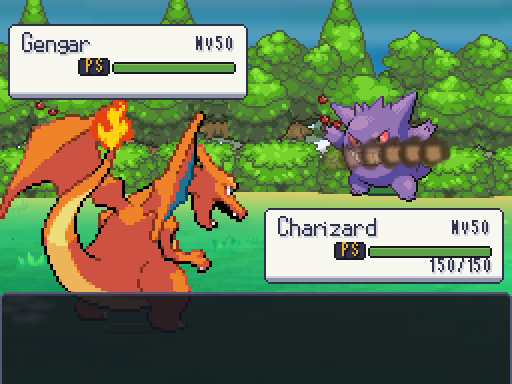
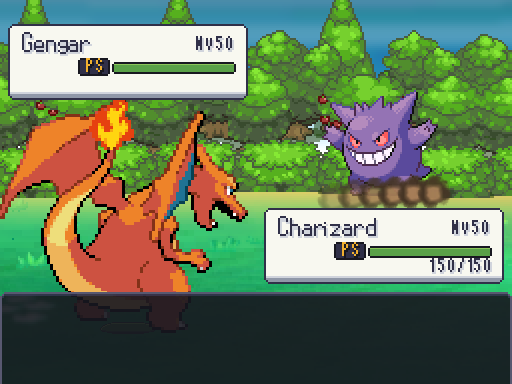
Combate: ajustar el polvo al suelo y cerrar la validación integrada

Changed region(s): [[0.625, 0.3438, 0.875, 0.5625]]

diff --git a/docs/ESTADO.md b/docs/ESTADO.md
@@ -245,7 +245,7 @@ Worktree `pokemon-panchito-agente1`, rama `feat/agente1-mundo-sur`. Tramo: Ruta 
 
 **Validación:** 11/11 dirigidas, 659 aserciones; suite completa **490/490 tests, 23.184 aserciones, 551,83 s**, sin fugas al cerrar ni errores de script. Arte 10.926 PNG, 0 errores/avisos; datos 0 errores y 3 avisos previos. Cuatro mapas con alcance 0 problemas. Registro R.2 regenerado: siete colocaciones; dorado actualizado por la entrada nueva. Grafo: **111 mapas, 2 grupos** (117 con pruebas/muestras). Arte y cantidad del regalo provisionales, pendiente Javier. Casas adicionales sin interior se mantienen identificadas; no se promete que todas estén abiertas.
 
-**Combate y editor F9 (2026-10-12):** seis secuencias nuevas por fases: Rayo Hielo, Rayo, Psíquico, Terremoto, Bola Sombra y Lanzallamas; total 22 movimientos con animación propia. Recursos originales, escala nativa, posiciones enteras y modo rápido/reducido sin partículas. F9 permite elegir habilidades legales/ocultas y preparar un set por nivel; aplica solo al confirmar y conserva la habilidad al editar objetos. Auditoría reproducible en `tools/arte/auditar_combate.gd`: 316 habilidades, 29 efectos registrados por script, 49 descripciones vacías; 951 movimientos, 441 que requieren script sin registro. No certifica comportamiento completo: hay reglas generales y casos parciales. [Comparativa](arte/comparativas/a3_fases_y_habilidades.md) e [informe](arte/cobertura_combate/README.md). Pruebas dirigidas: animaciones 8/8, 4.969 aserciones; editor 2/2, 22 aserciones; controles 4/4, 27 aserciones. **Integración pendiente de cerrar:** el arranque RandomLocke puede agotar el límite de 15 s de la prueba y dejar diálogos/locks abiertos que contaminan las siguientes. Pasa aislado a 120 FPS (7,89 s); se repite la suite completa sin cambiar pruebas ajenas. Cambios A1 de portada, gimnasios y 67 personajes integrados en la rama; tests de colocación 4/4, 867 aserciones y alcance Getafe/Ruta 24 con colocación aplicada: 0 problemas.
+**Combate y editor F9 (2026-10-12):** seis secuencias nuevas por fases: Rayo Hielo, Rayo, Psíquico, Terremoto, Bola Sombra y Lanzallamas; total 22 movimientos con animación propia. Recursos originales, escala nativa, posiciones enteras y modo rápido/reducido sin partículas. F9 permite elegir habilidades legales/ocultas y preparar un set por nivel; aplica solo al confirmar y conserva la habilidad al editar objetos. Auditoría reproducible en `tools/arte/auditar_combate.gd`: 316 habilidades, 29 efectos registrados por script, 49 descripciones vacías; 951 movimientos, 441 que requieren script sin registro. No certifica comportamiento completo: hay reglas generales y casos parciales. [Comparativa](arte/comparativas/a3_fases_y_habilidades.md) e [informe](arte/cobertura_combate/README.md). Pruebas dirigidas: animaciones 8/8, 4.969 aserciones; editor 2/2, 22 aserciones; controles 4/4, 27 aserciones. **Validación integrada:** suite completa **497/497 tests, 24.815 aserciones, 607,76 s**, con headless limitado a 120 FPS; sin errores de script ni fugas al cerrar. Conserva la espera deprecada antigua de GUT. Remate de lectura y posición del polvo comprobado además con 14/14 pruebas dirigidas, 5.018 aserciones (8 animaciones, 2 habilidades, 4 controles). Arte: **10.930 PNG, 0 errores/0 avisos**. Datos: 0 errores y 3 avisos previos. Auditoría repetida: CSV/JSON idénticos. Cambios A1 de portada, gimnasios y 67 personajes integrados en la rama; tests de colocación 4/4, 867 aserciones y alcance Getafe/Ruta 24 con colocación aplicada: 0 problemas. El límite de 15 s del test RandomLocke sigue siendo intermitente en intentos anteriores; se deja revisión de aislamiento en petición 82, sin tocar la prueba ajena.
 
 ### Mapa F9 y entradas adicionales (2026-10-12)
 
@@ -702,7 +702,7 @@ Implementado por A3: pestaña Pruebas y copia temporal restaurable, catálogos y
 | 79 | A3 → A1 | NPCs con regalo solicitados por Javier: evento parametrizado y entrega única/atómica, resolución por DataDB, rechazo/mochila llena sin pérdida. El escaneo ItemPlacements incluye NPCs configurados para que el registro automático y RandomLocke no omitan sus objetos. | hecho por A3; 490/490 tests |
 | 80 | A3 → A4/A1 | Primer repaso de densidad solicitado por Javier: Getafe/Ruta 24, casa oriental visitable y detalle de Mercadona; mapas reservados antes de pintar. Recursos originales, caminos a portales/salidas, vecinos/puesto e interacciones; sin trama/famosos nuevos. | hecho por A3; comparativa provisional |
 | 81 | A3 → A5/A2 | Completar cobertura de habilidades/movimientos con el inventario reproducible `docs/arte/cobertura_combate/`: 316 habilidades, 29 efectos registrados, 49 descripciones vacías y 441 movimientos que requieren script sin registro. Priorizar especies usadas y las ofrecidas en F9; separar reglas generales del motor de scripts y verificar contra Showdown. WikiDex aportado por Javier como referencia de nombres/efectos. | pendiente; catálogo y selector entregados por A3 |
-| 82 | A3 → A1 | Revisar aislamiento y espera del test de nueva partida RandomLocke: límite de 15 s intermitente; cuando falla deja intro/diálogo/locks activos y contamina las pruebas posteriores. Flujo aislado pasa a 120 FPS en 7,89 s; una traza externa llega a intro terminada en 11,23 s. A1 activo: A3 no modifica su prueba y documenta los intentos completos. | pendiente; bloquea merge de esta continuación si no pasa la suite |
+| 82 | A3 → A1 | Revisar aislamiento y espera del test de nueva partida RandomLocke: límite de 15 s intermitente; cuando falla deja intro/diálogo/locks activos y contamina las pruebas posteriores. Flujo aislado pasa a 120 FPS en 7,89 s; una traza externa llega a intro terminada en 11,23 s. A1 activo: A3 no modifica su prueba y documenta los intentos completos. | pendiente de robustez; repetición completa 497/497 en verde |
 
 
 

diff --git a/docs/arte/comparativas/a3_fases_y_habilidades.md b/docs/arte/comparativas/a3_fases_y_habilidades.md
@@ -26,3 +26,5 @@ Rayo Hielo prepara un brillo y lanza el haz antes de la niebla; Rayo concentra e
 F9 → Equipo permite elegir únicamente habilidades de la especie, incluidas las ocultas. El selector muestra descripción y advierte del estado de cobertura del efecto; C/Start permite leer textos largos sin elegir ni aplicar nada. Cambiar un objeto conserva la habilidad elegida. «Set por nivel» prepara los movimientos actuales de DataDB para el nivel seleccionado, y «Aplicar» confirma el borrador; las elecciones manuales siguen disponibles para experimentar. Las pruebas rechazan habilidades ajenas a la especie sin sustituir el Pokémon. Todo permanece en la sesión temporal.
 
 Validación dirigida: animaciones 8/8 pruebas, 4.969 aserciones; habilidades y sets 2/2, 22 aserciones; controles de catálogos 4/4, 27 aserciones. La auditoría distingue catálogo, efectos registrados y animaciones, en [cobertura_combate](../cobertura_combate/README.md).
+
+Validación integrada: **497/497 tests, 24.815 aserciones, 607,76 s**, con headless a 120 FPS; remate visual/lectura verificado además con 14/14 pruebas dirigidas, 5.018 aserciones. Arte 10.930 PNG, 0 errores/avisos; datos 0 errores y 3 avisos previos. Suite completa sin fugas al cerrar; las pruebas aisladas de sesión conservan recursos en caché al salir de su proceso.
